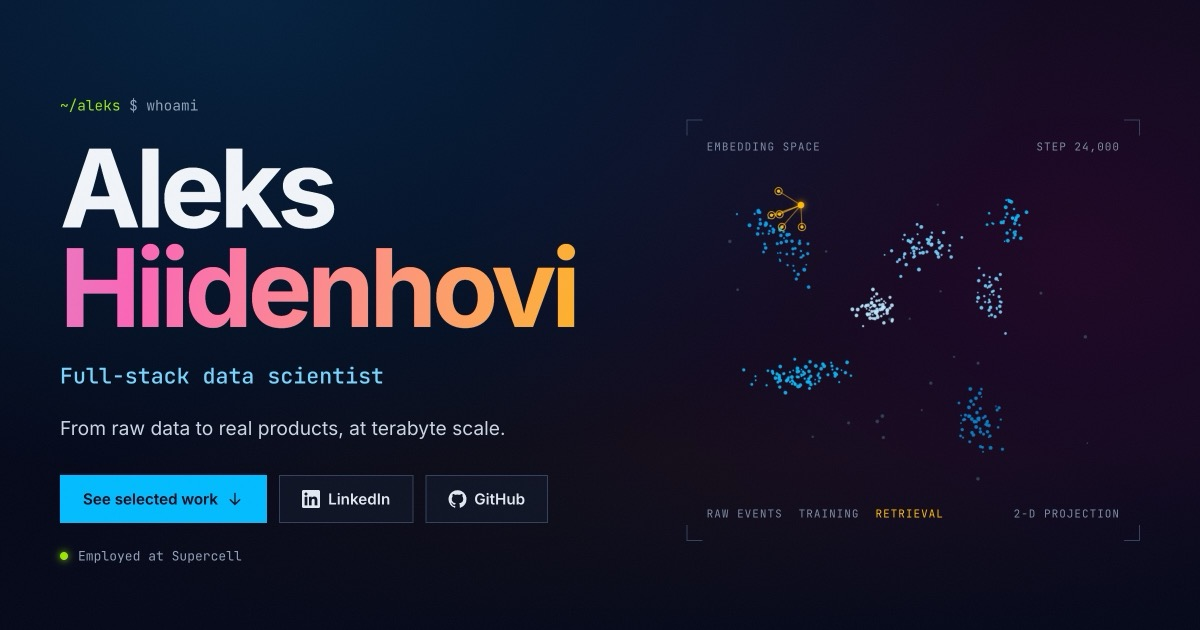
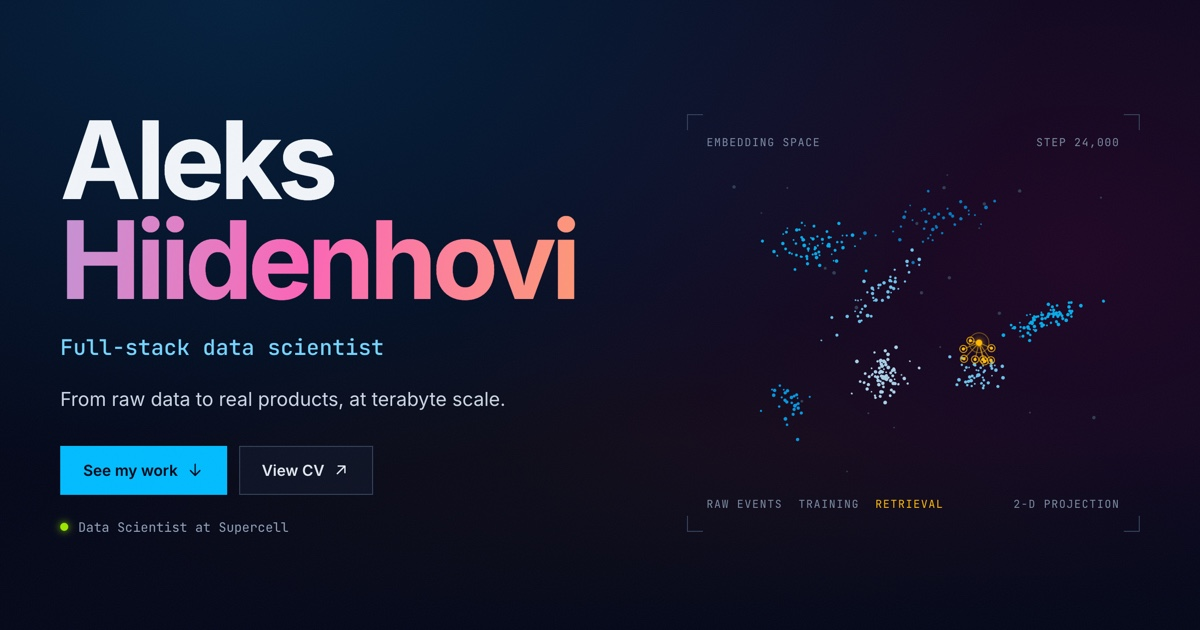
Update the link preview image to the current front page
Versions the image's URL so sites that cache previews fetch the new one.

diff --git a/index.html b/index.html
@@ -15,7 +15,7 @@
     <meta property="og:url" content="https://hiidenhovi.dev/" />
     <meta property="og:title" content="Aleks Hiidenhovi — Full-stack data scientist" />
     <meta property="og:description" content="From raw data to real products, at terabyte scale." />
-    <meta property="og:image" content="https://hiidenhovi.dev/og-image.jpg" />
+    <meta property="og:image" content="https://hiidenhovi.dev/og-image.jpg?v=2" />
     <meta property="og:image:width" content="1200" />
     <meta property="og:image:height" content="630" />
     <meta property="og:image:alt" content="Aleks Hiidenhovi, full-stack data scientist, next to an embedding space of clustered points" />
